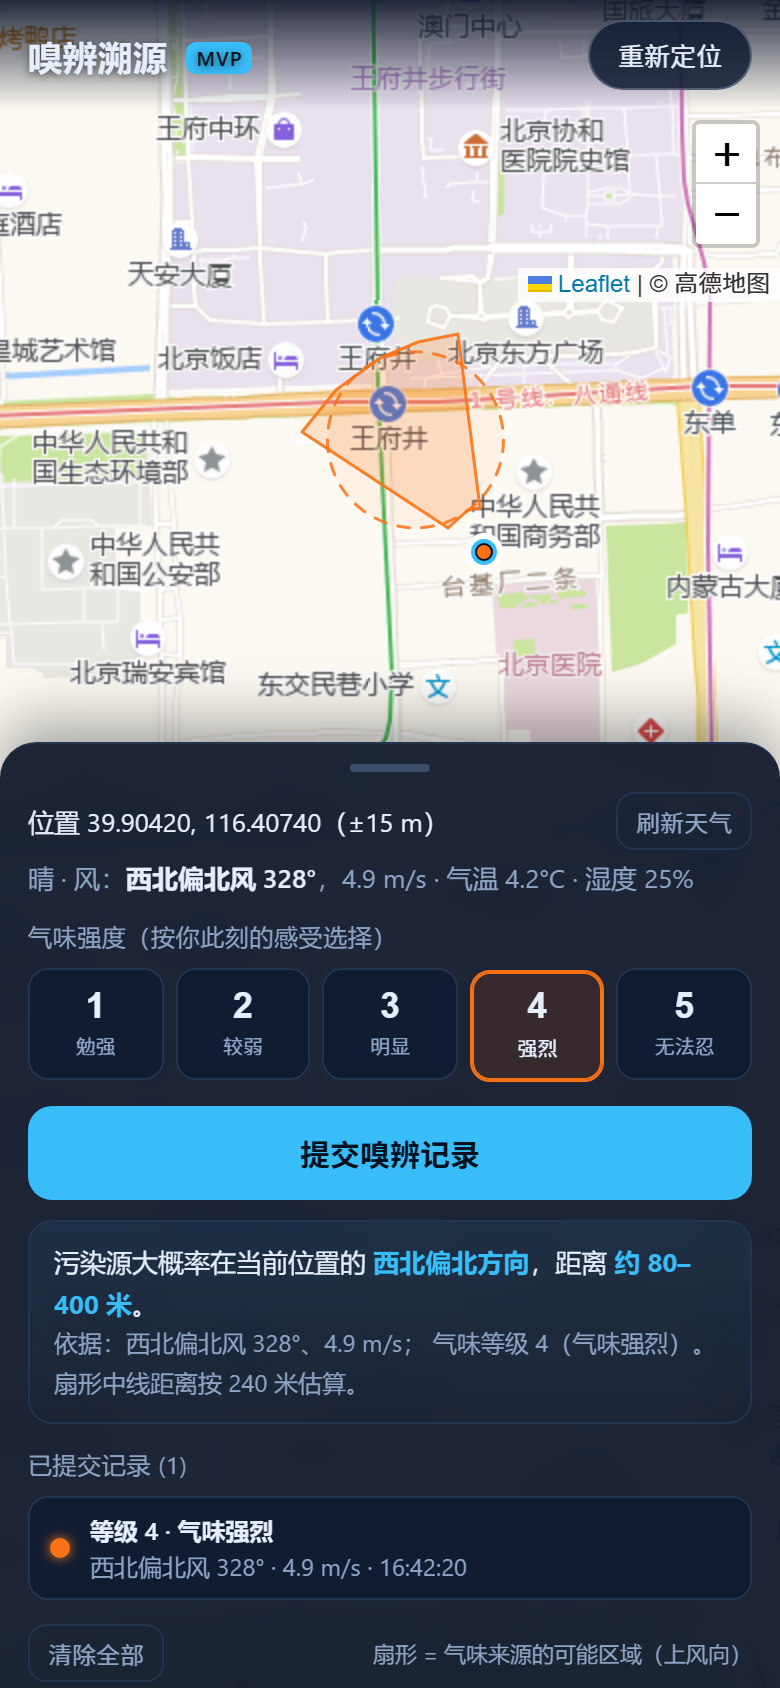
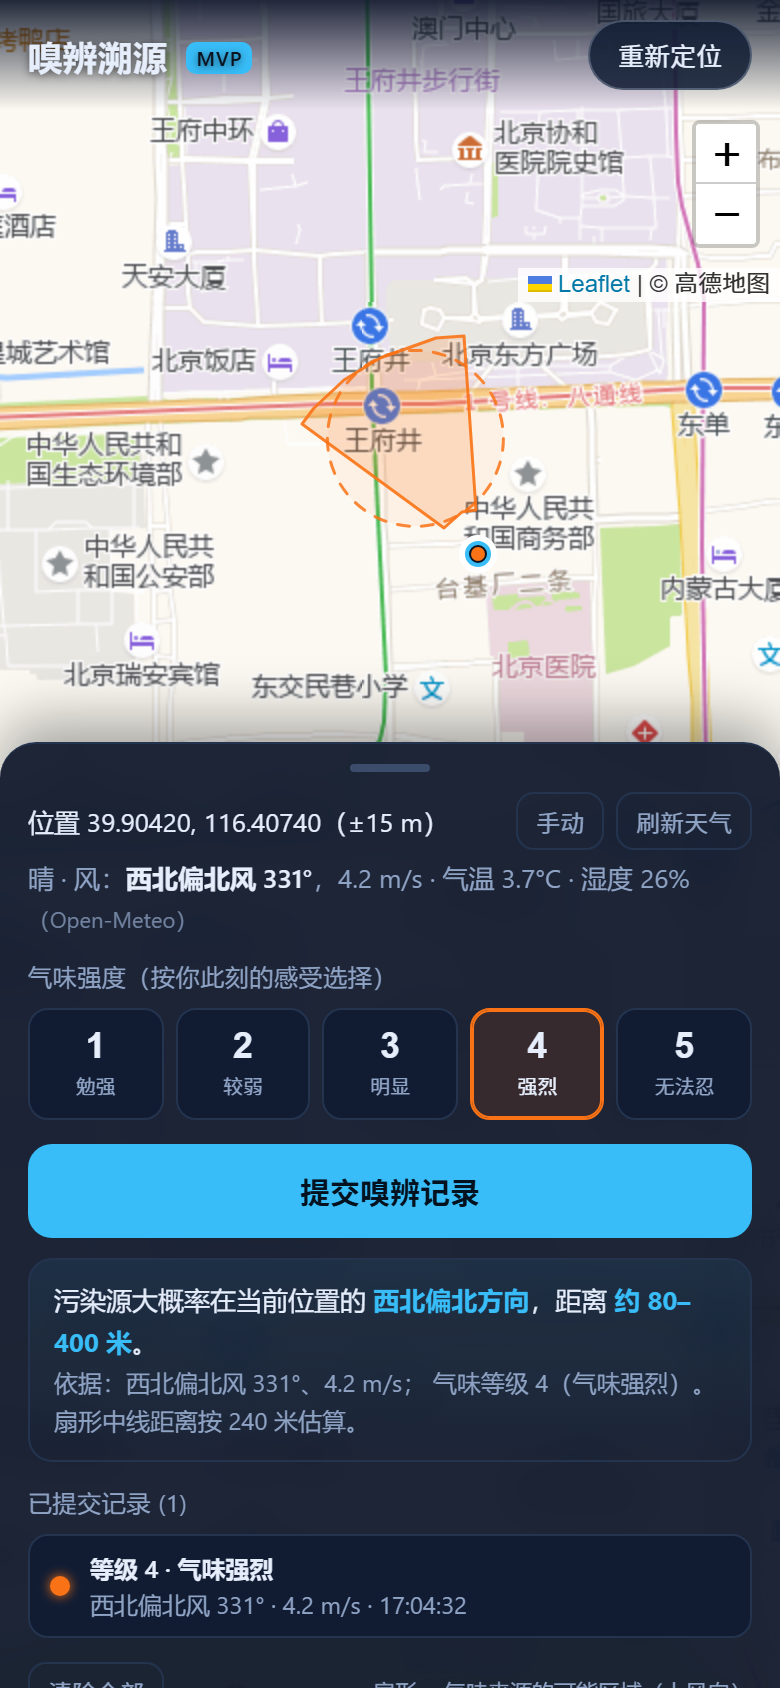
气象双源兜底（Open-Meteo→wttr.in）+ 手输风向风速；自测修复独立端口与进程树清理

diff --git a/test/e2e_cdp.js b/test/e2e_cdp.js
@@ -10,8 +10,9 @@ const path = require('path');
 
 const EDGE = process.env.EDGE_BIN ||
   'C:/Program Files (x86)/Microsoft/Edge/Application/msedge.exe';
-const PORT = 9333;
-const BASE = 'http://127.0.0.1:8123/';
+// 每次用独立端口：避免连到上一次没退干净的 headless 实例（会跑旧代码）
+const PORT = 9300 + Math.floor(Math.random() * 500);
+const BASE = process.env.BASE_URL || 'http://127.0.0.1:8123/';
 const ROOT = path.join(__dirname, '..');
 
 const sleep = (ms) => new Promise((r) => setTimeout(r, ms));
@@ -97,57 +98,91 @@ async function shot(cdp, filename) {
 
     await cdp.send('Page.enable');
     await cdp.send('Runtime.enable');
+    await cdp.send('Network.enable');
+    // 自测时禁用缓存与 Service Worker，确保跑的是磁盘上的最新代码
+    await cdp.send('Network.setCacheDisabled', { cacheDisabled: true });
+    try { await cdp.send('Network.setBypassServiceWorker', { bypass: true }); } catch (_) {}
     await cdp.send('Emulation.setDeviceMetricsOverride', {
       width: 390, height: 844, deviceScaleFactor: 2, mobile: true,
     });
-    await cdp.send('Page.navigate', { url: BASE });
+    await cdp.send('Page.navigate', { url: BASE + (BASE.includes('?') ? '&' : '?') + 't=' + Date.now() });
     await sleep(2500);
 
     report.viewport = await evalJs(cdp, 'innerWidth + "x" + innerHeight');
     report.leafletLoaded = await evalJs(cdp, 'typeof L !== "undefined"');
     report.levelsCount = await evalJs(cdp, 'document.querySelectorAll(".level-btn").length');
+    // 新代码断言：备源与手动风速必须存在
+    report.hasWttr = await evalJs(cdp, 'typeof fetchWttr === "function"');
+    report.hasManual = await evalJs(cdp, 'typeof applyManualWind === "function"');
 
     // 注入 GPS（绕过 headless 无法授权定位）
     await evalJs(cdp, 'setLocation(39.9042, 116.4074, 15); true');
 
-    // 等待真实天气返回
+    // 等待真实天气返回（Open-Meteo 8s → wttr.in 12s，最长约 20s；给到 32s）
     let weather = null;
-    for (let i = 0; i < 50; i++) {
-      weather = await evalJs(cdp, 'state.weather ? JSON.stringify(state.weather) : null');
+    for (let i = 0; i < 80; i++) {
+      weather = await evalJs(cdp,
+        'state.weather && state.weather.source ? JSON.stringify(state.weather) : null');
       if (weather) break;
       await sleep(400);
     }
-    if (!weather) throw new Error('天气 API 未返回');
-    report.weather = JSON.parse(weather);
+    report.weatherOk = !!weather;
+    report.weather = weather ? JSON.parse(weather) : null;
+    report.weatherSource = weather ? JSON.parse(weather).source : null;
     report.weatherText = await evalJs(cdp, 'document.getElementById("weatherText").innerText');
     await shot(cdp, '_e2e_before.png');
 
-    // 选等级 4 并提交
-    report.submitDisabledBefore = await evalJs(cdp, 'document.getElementById("btnSubmit").disabled');
-    await evalJs(cdp, 'selectLevel(4); addRecord(); true');
-    await sleep(3000);
+    // 真实天气路径：选等级 4 并提交（两个气象源都挂时跳过，下面用「手动」兜底验证）
+    if (weather) {
+      report.submitDisabledBefore = await evalJs(cdp, 'document.getElementById("btnSubmit").disabled');
+      await evalJs(cdp, 'selectLevel(4); addRecord(); true');
+      await sleep(3000);
 
-    report.records = await evalJs(cdp, 'state.records.length');
-    report.summary = await evalJs(cdp, 'document.getElementById("summary").innerText');
-    report.sectorBounds = await evalJs(cdp,
-      'JSON.stringify(state.records[0].sector.getBounds())');
-    report.estCircleRadius = await evalJs(cdp, 'state.records[0].estCircle.getRadius()');
-    report.mapZoom = await evalJs(cdp, 'map.getZoom()');
-    report.mapCenter = await evalJs(cdp, 'JSON.stringify(map.getCenter())');
-    report.sheetHeight = await evalJs(cdp, 'document.getElementById("sheet").offsetHeight');
-    report.sectorOnMap = await evalJs(cdp, 'map.hasLayer(state.records[0].sector)');
-    report.sectorPixelBounds = await evalJs(cdp,
-      'JSON.stringify((()=>{const b=state.records[0].sector.getBounds();' +
-      'return {sw:map.latLngToContainerPoint(b.getSouthWest()),' +
-      'ne:map.latLngToContainerPoint(b.getNorthEast())}})())');
-    // 方位约定自检：气象风向 = 污染源方位（上风向）
-    report.bearingEqualsWindDir = await evalJs(cdp,
-      'state.records[0].bearing === state.weather.wind_direction_10m');
-    await shot(cdp, '_e2e_after.png');
+      report.records = await evalJs(cdp, 'state.records.length');
+      report.summary = await evalJs(cdp, 'document.getElementById("summary").innerText');
+      report.sectorBounds = await evalJs(cdp,
+        'JSON.stringify(state.records[0].sector.getBounds())');
+      report.estCircleRadius = await evalJs(cdp, 'state.records[0].estCircle.getRadius()');
+      report.mapZoom = await evalJs(cdp, 'map.getZoom()');
+      report.mapCenter = await evalJs(cdp, 'JSON.stringify(map.getCenter())');
+      report.sheetHeight = await evalJs(cdp, 'document.getElementById("sheet").offsetHeight');
+      report.sectorOnMap = await evalJs(cdp, 'map.hasLayer(state.records[0].sector)');
+      report.sectorPixelBounds = await evalJs(cdp,
+        'JSON.stringify((()=>{const b=state.records[0].sector.getBounds();' +
+        'return {sw:map.latLngToContainerPoint(b.getSouthWest()),' +
+        'ne:map.latLngToContainerPoint(b.getNorthEast())}})())');
+      // 方位约定自检：气象风向 = 污染源方位（上风向）
+      report.bearingEqualsWindDir = await evalJs(cdp,
+        'state.records[0].bearing === state.weather.wind_direction_10m');
+      await shot(cdp, '_e2e_after.png');
 
-    // 清除
+      // 清除
+      await evalJs(cdp, 'clearAll(); true');
+      report.recordsAfterClear = await evalJs(cdp, 'state.records.length');
+    }
+
+    // 手动风向 / 风速路径（气象源全部失败时的兜底）
+    const manual = await evalJs(cdp, `(() => {
+      document.getElementById('mwDir').value = '90';
+      document.getElementById('mwSpd').value = '3.2';
+      applyManualWind();
+      const src = state.weather && state.weather.source;
+      const txt = document.getElementById('weatherText').innerText;
+      selectLevel(3);
+      addRecord();
+      const r = state.records[state.records.length - 1];
+      return JSON.stringify({
+        source: src, text: txt,
+        bearing: r && r.bearing, windSpeed: r && r.windSpeed,
+        records: state.records.length,
+        manualHidden: document.getElementById('manual').classList.contains('hidden'),
+        summary: document.getElementById('summary').innerText,
+      });
+    })()`);
+    report.manual = JSON.parse(manual);
+    await shot(cdp, '_e2e_manual.png');
     await evalJs(cdp, 'clearAll(); true');
-    report.recordsAfterClear = await evalJs(cdp, 'state.records.length');
+    report.recordsAfterManualClear = await evalJs(cdp, 'state.records.length');
 
     // 地图点击 → GCJ-02 反算为 WGS-84
     const { gcj02ToWgs84 } = require('../js/coords.js');
@@ -161,7 +196,11 @@ async function shot(cdp, filename) {
 
     ws.close();
   } finally {
-    child.kill();
+    // Edge 会派生子进程，child.kill() 杀不干净，会导致下次连到旧实例跑旧代码
+    try {
+      spawn('taskkill', ['/pid', String(child.pid), '/T', '/F'], { stdio: 'ignore' });
+    } catch (_) { /* 忽略 */ }
+    await sleep(500);
   }
 
   console.log(JSON.stringify(report, null, 2));

diff --git a/js/app.js b/js/app.js
@@ -46,6 +46,11 @@ const els = {
   locate: $('btnLocate'),
   refresh: $('btnRefresh'),
   clear: $('btnClear'),
+  manual: $('manual'),
+  manualBtn: $('btnManual'),
+  mwDir: $('mwDir'),
+  mwSpd: $('mwSpd'),
+  mwApply: $('mwApply'),
 };
 
 /* ---------------- 地图 ---------------- */
@@ -214,27 +219,82 @@ function setLocation(lat, lon, acc, manual = false) {
   refreshWeather(true);
 }
 
-/* ---------------- 天气（Open-Meteo，免 key） ---------------- */
+/* ---------------- 天气（Open-Meteo 主源 + wttr.in 备源 + 手动兜底） ---------------- */
 
-async function fetchWeather(lat, lon) {
+// wttr.in 的英文天气描述 → 中文
+const WTTR_CN = {
+  Sunny: '晴', Clear: '晴', 'Partly cloudy': '多云', Cloudy: '多云', Overcast: '阴',
+  Mist: '薄雾', Fog: '雾', Haze: '霾', 'Freezing fog': '冻雾',
+  'Light rain': '小雨', 'Moderate rain': '中雨', 'Heavy rain': '大雨',
+  'Light drizzle': '毛毛雨', 'Patchy light drizzle': '局部毛毛雨',
+  'Patchy rain possible': '局部有雨', 'Patchy light rain': '局部小雨',
+  'Light rain shower': '小阵雨', 'Moderate or heavy rain shower': '强阵雨',
+  'Thundery outbreaks possible': '可能有雷雨',
+  'Light snow': '小雪', 'Moderate snow': '中雪', 'Heavy snow': '大雪',
+  'Blizzard': '暴雪', 'Patchy snow possible': '局部有雪',
+  'Light freezing rain': '冻雨', 'Light sleet': '小雨夹雪', Sleet: '雨夹雪',
+};
+
+async function fetchJson(url, timeoutMs) {
+  const ctrl = new AbortController();
+  const timer = setTimeout(() => ctrl.abort(), timeoutMs);
+  try {
+    const res = await fetch(url, { signal: ctrl.signal });
+    if (!res.ok) throw new Error(`HTTP ${res.status}`);
+    return await res.json();
+  } finally {
+    clearTimeout(timer);
+  }
+}
+
+async function fetchOpenMeteo(lat, lon) {
   const url =
     'https://api.open-meteo.com/v1/forecast' +
     `?latitude=${lat.toFixed(4)}&longitude=${lon.toFixed(4)}` +
     '&current=temperature_2m,relative_humidity_2m,wind_speed_10m,' +
     'wind_direction_10m,weather_code' +
     '&wind_speed_unit=ms&timezone=auto';
+  const data = await fetchJson(url, 8000);
+  if (!data.current) throw new Error('Open-Meteo 响应异常');
+  const c = data.current;
+  return {
+    source: 'Open-Meteo',
+    temperature_2m: c.temperature_2m,
+    relative_humidity_2m: c.relative_humidity_2m,
+    wind_speed_10m: c.wind_speed_10m,
+    wind_direction_10m: c.wind_direction_10m,
+    desc: WEATHER_CODES[c.weather_code] || '',
+  };
+}
 
-  const ctrl = new AbortController();
-  const timer = setTimeout(() => ctrl.abort(), 15000);
-  try {
-    const res = await fetch(url, { signal: ctrl.signal });
-    if (!res.ok) throw new Error(`HTTP ${res.status}`);
-    const data = await res.json();
-    if (!data.current) throw new Error('响应缺少 current 字段');
-    return data.current;
-  } finally {
-    clearTimeout(timer);
+async function fetchWttr(lat, lon) {
+  const url = `https://wttr.in/${lat.toFixed(4)},${lon.toFixed(4)}?format=j1`;
+  const data = await fetchJson(url, 12000);
+  const c = data.current_condition && data.current_condition[0];
+  if (!c) throw new Error('wttr.in 响应异常');
+  const kmph = Number(c.windspeedKmph);
+  const desc = c.weatherDesc && c.weatherDesc[0] && c.weatherDesc[0].value;
+  return {
+    source: 'wttr.in',
+    temperature_2m: c.temp_C != null ? Number(c.temp_C) : null,
+    relative_humidity_2m: c.humidity != null ? Number(c.humidity) : null,
+    wind_speed_10m: Number.isFinite(kmph) ? kmph / 3.6 : null,
+    wind_direction_10m: c.winddirDegree != null ? Number(c.winddirDegree) : null,
+    desc: desc ? (WTTR_CN[desc] || desc) : '',
+  };
+}
+
+/** 依次尝试数据源，任一成功即返回 */
+async function fetchWeather(lat, lon) {
+  const errors = [];
+  for (const fn of [fetchOpenMeteo, fetchWttr]) {
+    try {
+      return await fn(lat, lon);
+    } catch (e) {
+      errors.push(e.message);
+    }
   }
+  throw new Error(errors.join(' / '));
 }
 
 async function refreshWeather(force = false) {
@@ -250,14 +310,14 @@ async function refreshWeather(force = false) {
     state.weather = null;
     state.weatherAt = 0;
     els.weather.textContent = '气象获取失败';
-    setWarn(`天气接口失败（${e.message}），请检查网络后点「刷新天气」。`, true);
+    els.manual.classList.remove('hidden');
+    setWarn(`天气接口失败（${e.message}）。可点「手动」输入风向风速。`, true);
   }
 }
 
 function renderWeather(cur) {
   const parts = [];
-  const codeText = WEATHER_CODES[cur.weather_code] || '';
-  if (codeText) parts.push(codeText);
+  if (cur.desc) parts.push(cur.desc);
 
   const ws = cur.wind_speed_10m;
   const wd = cur.wind_direction_10m;
@@ -268,13 +328,40 @@ function renderWeather(cur) {
   }
   if (cur.temperature_2m != null) parts.push(`气温 ${cur.temperature_2m.toFixed(1)}°C`);
   if (cur.relative_humidity_2m != null) parts.push(`湿度 ${Math.round(cur.relative_humidity_2m)}%`);
-  els.weather.innerHTML = parts.join(' · ');
+  const src = cur.source ? ` <span class="src">（${cur.source}）</span>` : '';
+  els.weather.innerHTML = parts.join(' · ') + src;
 
   if (ws != null && ws < 0.5) {
     setWarn('当前风速过小（<0.5 m/s），风向参考性差，溯源结果可靠性下降。', true);
   } else {
     clearWarn();
   }
+}
+
+function applyManualWind() {
+  const dir = Number(els.mwDir.value);
+  const spd = Number(els.mwSpd.value);
+  if (!Number.isFinite(dir) || dir < 0 || dir > 359) {
+    setWarn('请输入有效的风向：0–359°（气象风向 = 风的来向）。');
+    return;
+  }
+  if (!Number.isFinite(spd) || spd < 0) {
+    setWarn('请输入有效的风速（m/s）。');
+    return;
+  }
+  const w = {
+    source: '手动输入',
+    temperature_2m: null,
+    relative_humidity_2m: null,
+    wind_speed_10m: spd,
+    wind_direction_10m: dir,
+    desc: '',
+  };
+  state.weather = w;
+  state.weatherAt = Date.now();
+  renderWeather(w);
+  clearWarn();
+  els.manual.classList.add('hidden');
 }
 
 /* ---------------- 提交与绘制 ---------------- */
@@ -429,6 +516,8 @@ els.locate.addEventListener('click', locate);
 els.refresh.addEventListener('click', () => refreshWeather(true));
 els.submit.addEventListener('click', addRecord);
 els.clear.addEventListener('click', clearAll);
+els.manualBtn.addEventListener('click', () => els.manual.classList.toggle('hidden'));
+els.mwApply.addEventListener('click', applyManualWind);
 
 map.on('click', (e) => {
   const [lat, lon] = gcj02ToWgs84(e.latlng.lat, e.latlng.lng);

diff --git a/css/app.css b/css/app.css
@@ -105,6 +105,32 @@ html, body {
 .loc { font-size: 13px; color: var(--text); }
 .weather { font-size: 13px; color: var(--muted); margin-top: 4px; line-height: 1.5; }
 .weather b { color: var(--text); font-weight: 600; }
+.weather .src { font-size: 11px; opacity: .75; }
+.btns { display: flex; gap: 6px; flex: 0 0 auto; }
+
+.manual {
+  display: flex;
+  align-items: center;
+  gap: 8px;
+  margin-top: 8px;
+  padding: 8px;
+  border: 1px solid var(--line);
+  border-radius: 10px;
+  background: var(--panel);
+  font-size: 12px;
+  color: var(--muted);
+}
+.manual label { display: flex; align-items: center; gap: 4px; flex: 1; min-width: 0; }
+.manual input {
+  width: 100%;
+  min-width: 0;
+  background: var(--bg);
+  color: var(--text);
+  border: 1px solid var(--line);
+  border-radius: 8px;
+  padding: 6px 8px;
+  font-size: 13px;
+}
 .warn {
   margin-top: 6px;
   font-size: 12px;

diff --git a/index.html b/index.html
@@ -28,9 +28,17 @@
   <div class="status">
     <div class="status-row">
       <span id="locText" class="loc">正在定位…</span>
-      <button id="btnRefresh" class="ghost small">刷新天气</button>
+      <span class="btns">
+        <button id="btnManual" class="ghost small">手动</button>
+        <button id="btnRefresh" class="ghost small">刷新天气</button>
+      </span>
     </div>
     <div id="weatherText" class="weather">—</div>
+    <div id="manual" class="manual hidden">
+      <label>风向<input id="mwDir" type="number" min="0" max="359" step="1" inputmode="numeric" placeholder="0-359°"></label>
+      <label>风速<input id="mwSpd" type="number" min="0" step="0.1" inputmode="decimal" placeholder="m/s"></label>
+      <button id="mwApply" class="ghost small">应用</button>
+    </div>
     <div id="warnText" class="warn hidden"></div>
   </div>
 

diff --git a/sw.js b/sw.js
@@ -1,7 +1,7 @@
 /* 离线壳：缓存页面与静态资源；天气和地图瓦片仍走网络 */
 'use strict';
 
-const CACHE = 'odor-mvp-v1';
+const CACHE = 'odor-mvp-v3';
 const ASSETS = [
   './',
   'index.html',
